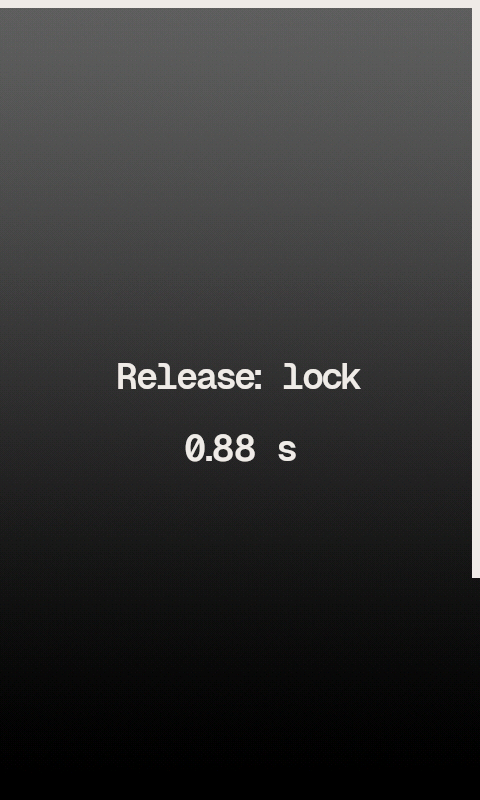
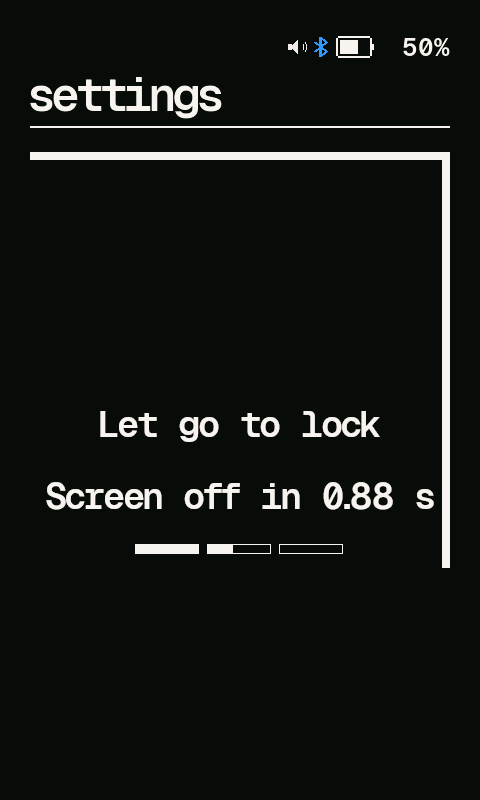
feat(keys): power hold says what holding on gets
Let go to lock / Screen off in 0.88 s, rather than Release: lock and a
bare number, and three bars for the three steps of the one key.

Claude-Session: https://claude.ai/code/session_017kqVyLuTb7TFSwRi22K4U1

diff --git a/apps/rpkeys.c b/apps/rpkeys.c
@@ -417,7 +417,7 @@ static void countdown_draw(long held_ticks)
 {
     struct viewport vp;
     char line[32];
-    const char *what;
+    const char *what, *next;
     long target, start, perim, want;
     long left_ms;
     int w, h, y;
@@ -428,16 +428,18 @@ static void countdown_draw(long held_ticks)
 
     if (held_ticks >= SCREEN_OFF_HOLD_TICKS)
     {
-        what = "Release: screen off";
+        what = "Let go: screen off";
+        next = "Power off in ";
         target = SHUTDOWN_HOLD_TICKS;
         start = SCREEN_OFF_HOLD_TICKS;
         stage = 2;
     }
     else if (held_ticks >= LOCK_HOLD_TICKS)
     {
-        /* Short: the line is one line of a big face. Holding on is
-         * shown by the border starting round again. */
-        what = locked ? "Release: unlock" : "Release: lock";
+        /* Short: the line is one line of a big face. What letting go
+         * does now, and under it what holding on gets instead. */
+        what = locked ? "Let go to unlock" : "Let go to lock";
+        next = "Screen off in ";
         target = SCREEN_OFF_HOLD_TICKS;
         start = LOCK_HOLD_TICKS;
         stage = 1;
@@ -445,6 +447,7 @@ static void countdown_draw(long held_ticks)
     else
     {
         what = locked ? "Hold to unlock" : "Hold to lock";
+        next = "";
         target = LOCK_HOLD_TICKS;
         start = LOCK_ARM_TICKS;
         stage = 0;
@@ -530,10 +533,31 @@ static void countdown_draw(long held_ticks)
     /* Hundredths. Thousandths were three digits of noise churning too fast
      * to read; two move at about the speed the eye can follow and still say
      * plainly that the device has not frozen. */
-    snprintf(line, sizeof(line), "%ld.%02ld s", left_ms / 1000,
+    snprintf(line, sizeof(line), "%s%ld.%02ld s", next, left_ms / 1000,
              (left_ms % 1000) / 10);
     lcd_getstringsize(line, &w, NULL);
     lcd_putsxy((vp.width - w) / 2, y + h + h / 2, line);
+
+    /* Lock, screen off, power off: the three things the one key does, as
+     * three steps. The ones passed are solid, the one being counted fills
+     * as it goes, so how far there is to hold is on the screen before the
+     * text has been read. */
+    {
+        const int gap = 8, sh = 10;
+        const int sw = (vp.width / 2 - 2 * gap) / 3;
+        int sx = vp.width / 4, i;
+
+        for (i = 0; i < 3; i++, sx += sw + gap)
+        {
+            lcd_drawrect(sx, y + 3 * h, sw, sh);
+            if (i < stage)
+                lcd_fillrect(sx, y + 3 * h, sw, sh);
+            else if (i == stage && target > start && held_ticks > start)
+                lcd_fillrect(sx, y + 3 * h,
+                             (int)(sw * MIN(held_ticks - start, target - start)
+                                   / (target - start)), sh);
+        }
+    }
 
     if (first)
         lcd_update_viewport();

diff --git a/docs/mods/touch-controls.md b/docs/mods/touch-controls.md
@@ -2,7 +2,7 @@
 
 
 If you have trouble tapping the right element in lists, you can increase line height with the `Line Padding in Lists` setting (in `Settings > Display`).
-It's also useful to set the `Line Separator` to `Auto` (in `Settings > Advanced > Lists & Scrolling`) to see the element tap zones:
+It's also useful to set the `Line Separator` to `Auto` (in `Settings > Display > Lists & Scrolling`) to see the element tap zones:
 <p align="center">
 <img width="120" height="200" alt="list_100px_padding" src="docs/mods/screenshots/list_100px_padding.png" />
 </p>
@@ -43,9 +43,9 @@ Hold **Power** and let go:
 - at **2 s** - screen off. The keys still work in the dark and do not wake it, and the touchscreen is off; a **Power** press brings the screen back and does nothing else. While it is off the LED blinks while playing and stays lit while paused (not on the charger, where it shows charging).
 - hold **4 s** - shut down, as before.
 
-The countdown says what letting go now will do; the border round the screen starts again at each step.
+The countdown says what letting go now will do and, under it, what holding on gets instead and how long that is away. The three bars are the three steps - lock, screen off, power off - and the border round the screen starts again at each one.
 
 <p align="center">
-<img width="160" alt="Release to lock" src="screenshots/power-hold-lock.png" />
-<img width="160" alt="Release for screen off" src="screenshots/power-hold-screen-off.png" />
+<img width="160" alt="Let go to lock" src="screenshots/power-hold-lock.png" />
+<img width="160" alt="Let go for screen off" src="screenshots/power-hold-screen-off.png" />
 </p>
